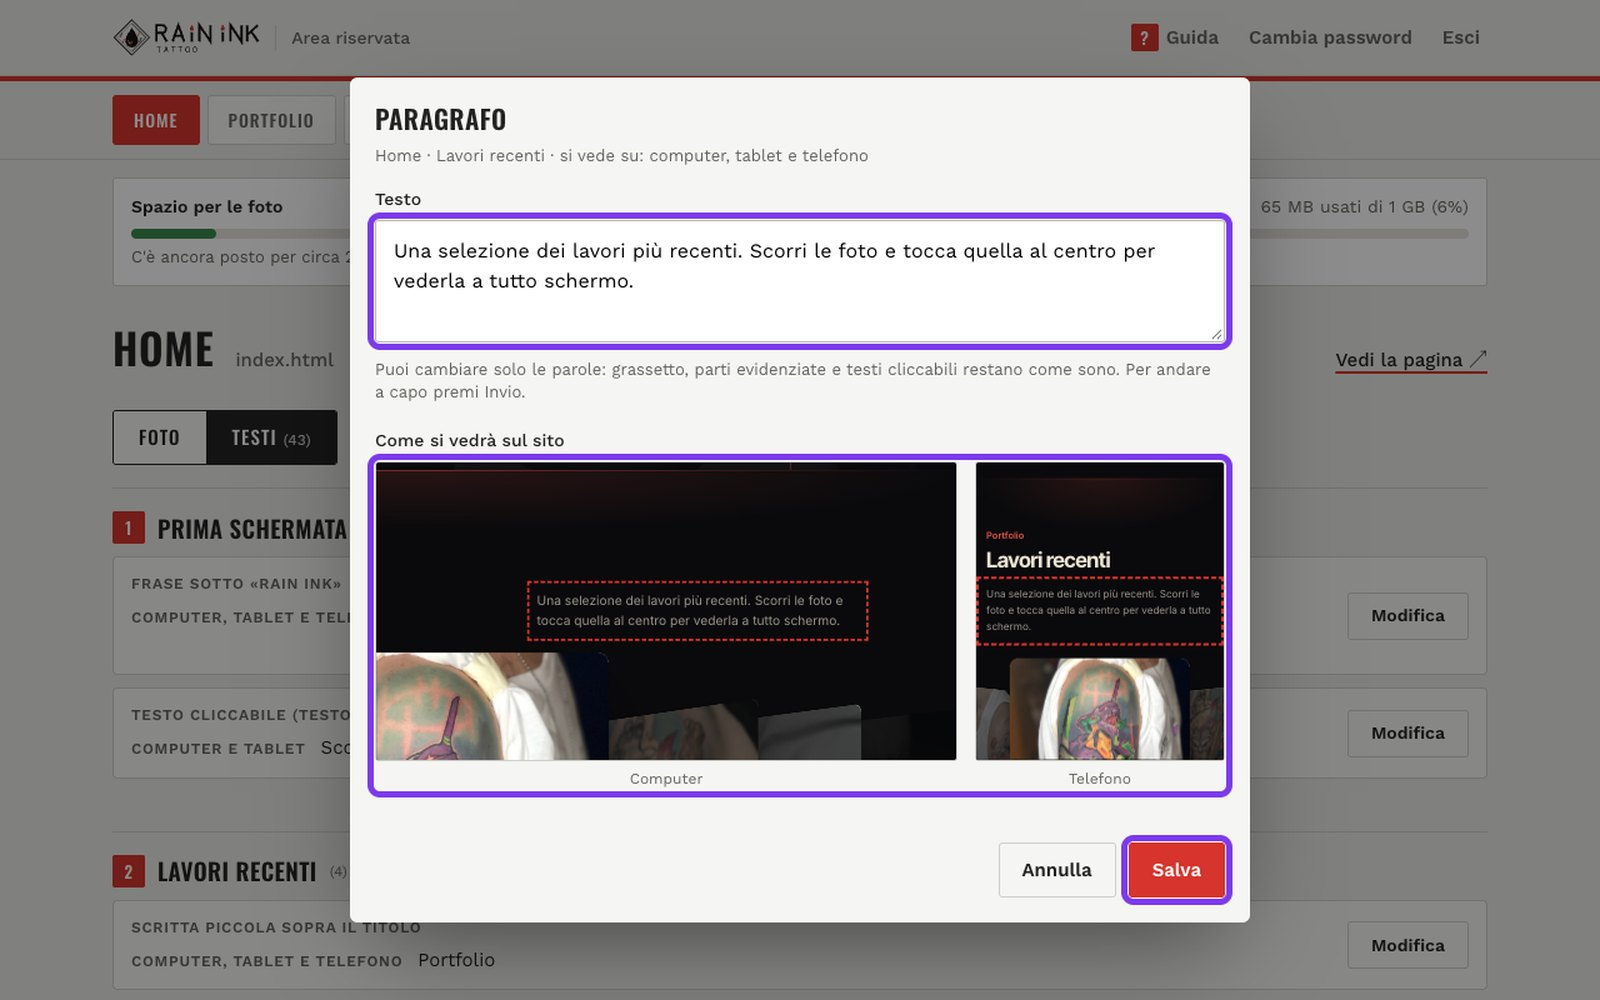
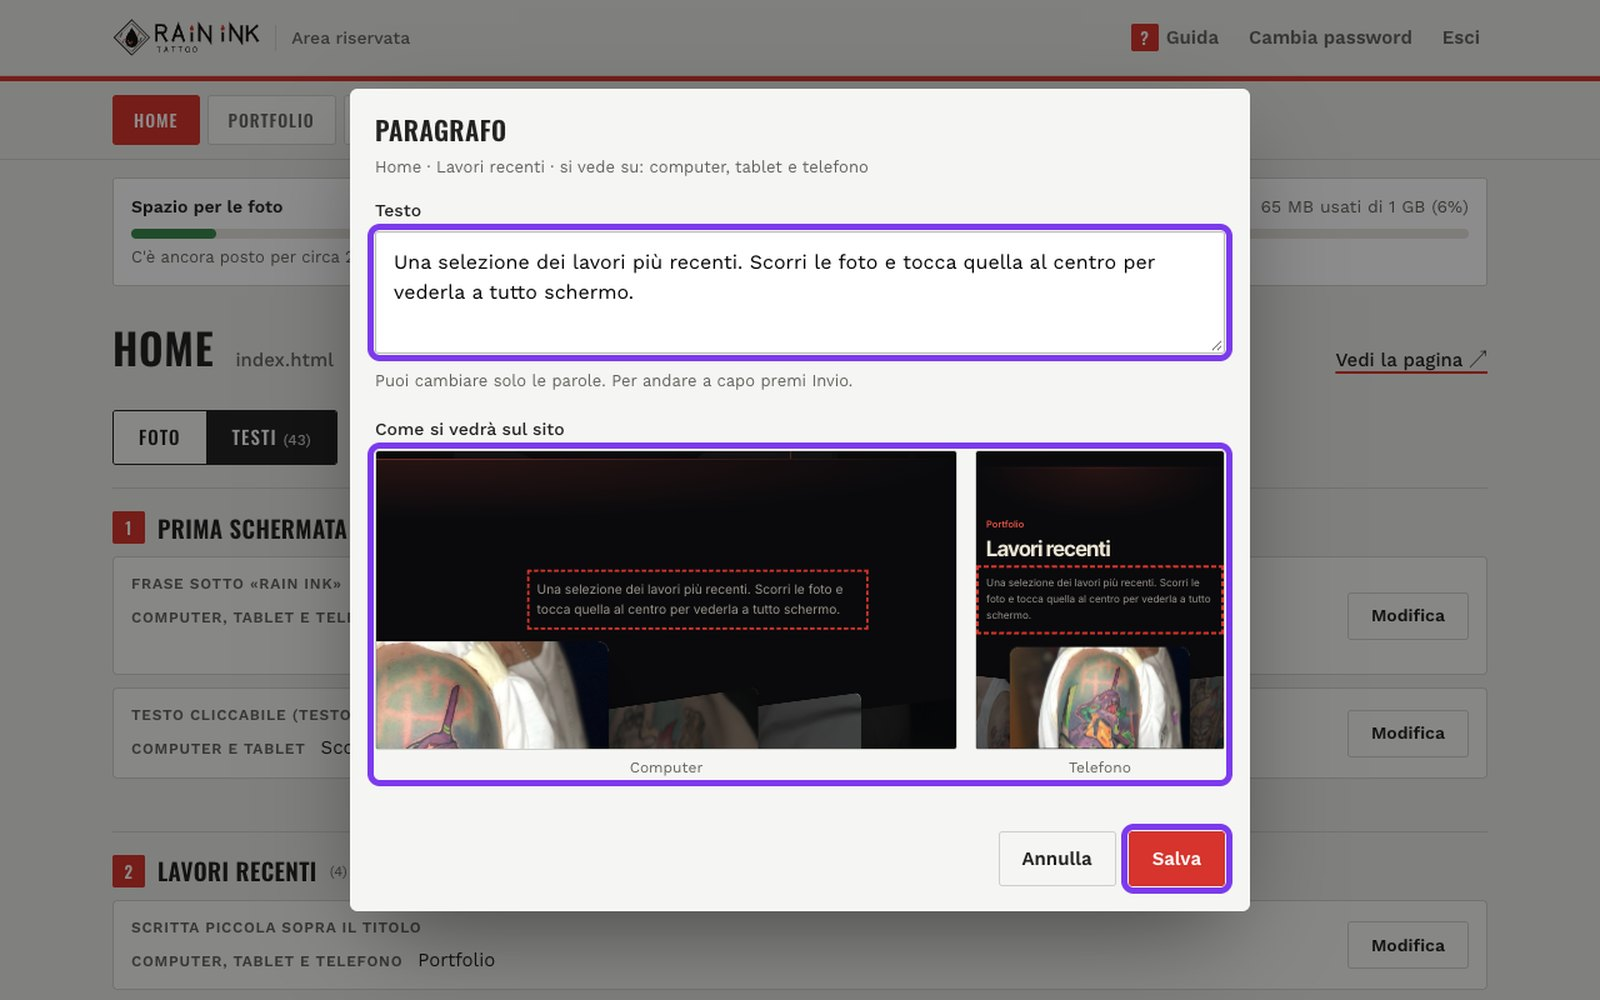
Area riservata: frase d'aiuto dei testi senza grassetto ed evidenziato, schermate della guida rifatte (versione 6.25 nel LEGGIMI)

Changed region(s): [[0.2188, 0.527, 0.7812, 0.93], [0.2188, 0.062, 0.7812, 0.31], [0.2188, 0.341, 0.7812, 0.496]]

diff --git a/area-riservata.html b/area-riservata.html
@@ -547,7 +547,7 @@ input[type=text],input[type=password]{border-radius:3px;background:#fff;border-c
     <div class="campo">
       <p class="etichetta-ant" id="tx-etichetta">Testo</p>
       <div id="tx-parti"></div>
-      <p class="aiuto" id="tx-aiuto">Puoi cambiare solo le parole: grassetto, parti evidenziate e testi cliccabili restano come sono. Per andare a capo premi Invio.</p>
+      <p class="aiuto" id="tx-aiuto">Puoi cambiare solo le parole. Per andare a capo premi Invio.</p>
       <p class="aiuto" id="tx-aiuto-semplice" hidden>Qui va solo il testo, su una riga: le parti fisse accanto (icone, frecce, numeri) restano come sono.</p>
     </div>
     <div class="campo" id="tx-campo-link" hidden>
@@ -711,12 +711,12 @@ input[type=text],input[type=password]{border-radius:3px;background:#fff;border-c
     <section class="g-sez" id="g-t-modificare" aria-labelledby="g-t-modificare-t">
       <h3 id="g-t-modificare-t">Modificare un testo</h3>
       <div class="g-passo"><span class="num">1</span><p>Nella pagina clicca <b>Testi</b> (accanto a Foto). I testi sono divisi per sezione, nell'ordine in cui si vedono sul sito: clicca quello da cambiare.</p><a href="images/guida/testi.jpg" class="g-zoom" data-punti="12.25,34.70,9.44,7.20;6.44,49.20,87.12,13.90" aria-label="Ingrandisci la schermata"><img src="images/guida/testi.jpg" alt="Il pulsante Testi e l'elenco dei testi della Home divisi per sezione" width="1600" height="1000" loading="lazy" decoding="async"></a></div>
-      <div class="g-passo"><span class="num">2</span><p>Scrivi il testo nuovo (per andare a capo premi Invio). Si cambiano solo le parole: se nel testo ci sono parti in grassetto o cliccabili, ognuna ha il suo campo e resta com'è. Sotto vedi, mentre scrivi, <b>come si vedrà sul sito</b>: a sinistra sul <b>computer</b>, a destra sul <b>telefono</b>, con il testo contornato di rosso al suo posto nella pagina; poi clicca <b>Salva</b>.</p><a href="images/guida/testo-modifica.jpg" class="g-zoom" data-punti="22.97,21.25,54.06,13.75;22.97,45.38,54.06,34.38;70.08,83.50,6.95,7.00" aria-label="Ingrandisci la schermata"><img src="images/guida/testo-modifica.jpg" alt="La finestra del testo con il campo da scrivere, l'anteprima come sul sito per computer e telefono e il pulsante Salva" width="1600" height="1000" loading="lazy" decoding="async"></a></div>
+      <div class="g-passo"><span class="num">2</span><p>Scrivi il testo nuovo (per andare a capo premi Invio). Si cambiano solo le parole: se nel testo ci sono parti in grassetto o cliccabili, ognuna ha il suo campo e resta com'è. Sotto vedi, mentre scrivi, <b>come si vedrà sul sito</b>: a sinistra sul <b>computer</b>, a destra sul <b>telefono</b>, con il testo contornato di rosso al suo posto nella pagina; poi clicca <b>Salva</b>.</p><a href="images/guida/testo-modifica.jpg" class="g-zoom" data-punti="22.97,22.38,54.06,13.75;22.97,44.25,54.06,34.38;70.08,82.38,6.95,7.00" aria-label="Ingrandisci la schermata"><img src="images/guida/testo-modifica.jpg" alt="La finestra del testo con il campo da scrivere, l'anteprima come sul sito per computer e telefono e il pulsante Salva" width="1600" height="1000" loading="lazy" decoding="async"></a></div>
       <p class="g-nota">Quasi ogni testo è uno solo e si vede uguale su computer, tablet e telefono (cambia solo come è impaginato): nella scheda c'è scritto dove si vede. «Scorri verso il basso», nella prima schermata della Home, si vede solo su computer e tablet.</p>
     </section>
     <section class="g-sez" id="g-t-link" aria-labelledby="g-t-link-t">
       <h3 id="g-t-link-t">Pulsanti e testi cliccabili</h3>
-      <div class="g-passo"><span class="num">1</span><p>Nei pulsanti e nei testi cliccabili cambi le parole; sotto vedi anche <b>Dove porta il clic</b>, che invece resta com'è.</p><a href="images/guida/testo-link.jpg" class="g-zoom" data-punti="22.97,15.50,54.06,13.75;22.97,36.25,54.06,10.88;70.08,89.38,6.95,7.00" aria-label="Ingrandisci la schermata"><img src="images/guida/testo-link.jpg" alt="La finestra di un pulsante con il testo da cambiare, il campo Dove porta il clic in grigio e il pulsante Salva" width="1600" height="1000" loading="lazy" decoding="async"></a></div>
+      <div class="g-passo"><span class="num">1</span><p>Nei pulsanti e nei testi cliccabili cambi le parole; sotto vedi anche <b>Dove porta il clic</b>, che invece resta com'è.</p><a href="images/guida/testo-link.jpg" class="g-zoom" data-punti="22.97,16.62,54.06,13.75;22.97,35.12,54.06,10.88;70.08,88.25,6.95,7.00" aria-label="Ingrandisci la schermata"><img src="images/guida/testo-link.jpg" alt="La finestra di un pulsante con il testo da cambiare, il campo Dove porta il clic in grigio e il pulsante Salva" width="1600" height="1000" loading="lazy" decoding="async"></a></div>
     </section>
     <section class="g-sez" id="g-t-fissi" aria-labelledby="g-t-fissi-t">
       <h3 id="g-t-fissi-t">Cosa non si cambia</h3>
